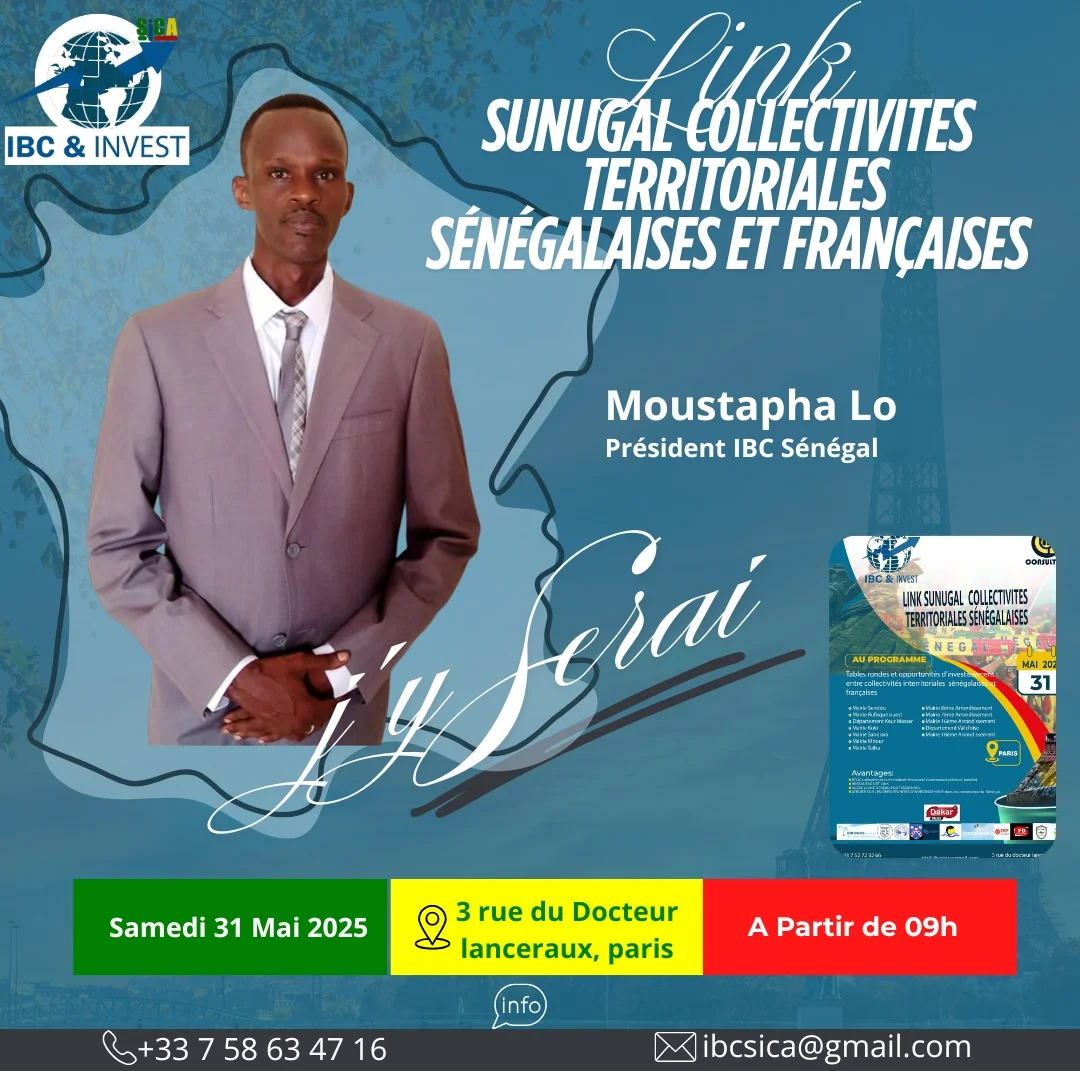
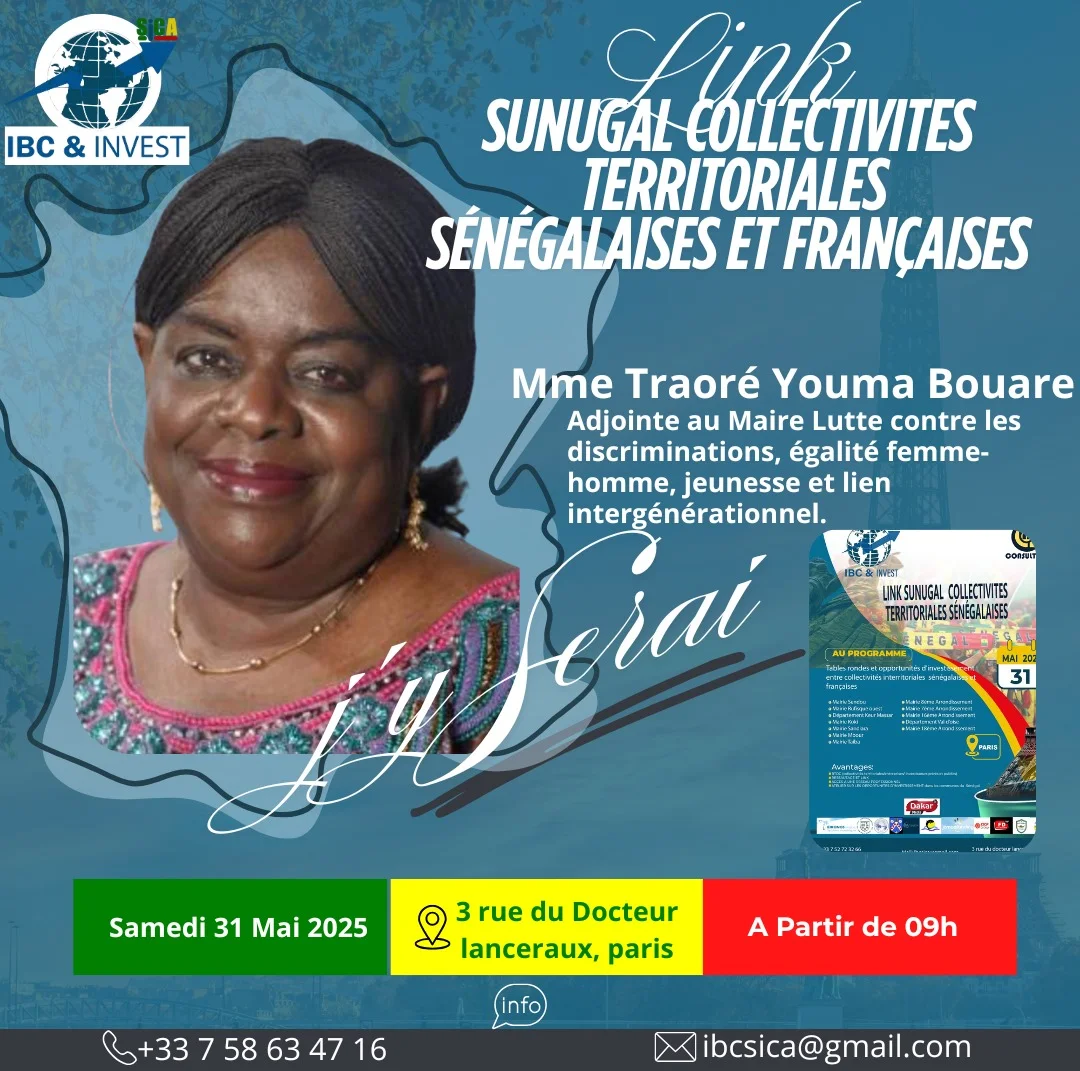
update 14 mai

Changed region(s): [[0.0611, 0.0616, 1.0, 0.8011]]

diff --git a/src/components/Speakers.tsx b/src/components/Speakers.tsx
@@ -18,6 +18,20 @@ import image15 from '../assets/img/invite/15.webp';
 import image16 from '../assets/img/invite/16.webp';
 import image17 from '../assets/img/invite/17.webp';
 import image18 from '../assets/img/invite/18.webp';
+import image19 from '../assets/img/invite/19.webp';
+import image20 from '../assets/img/invite/20.webp';
+import image21 from '../assets/img/invite/21.webp';
+import image22 from '../assets/img/invite/22.webp';
+import image23 from '../assets/img/invite/23.webp';
+import image24 from '../assets/img/invite/24.webp';
+import image25 from '../assets/img/invite/25.webp';
+import image26 from '../assets/img/invite/26.webp';
+import image27 from '../assets/img/invite/27.webp';
+import image28 from '../assets/img/invite/28.webp';
+import image29 from '../assets/img/invite/29.webp';
+import image30 from '../assets/img/invite/30.webp';
+import image31 from '../assets/img/invite/31.webp';
+import image32 from '../assets/img/invite/32.webp';
 
 const speakersData = [
   {
@@ -27,21 +41,21 @@ const speakersData = [
     image: image1,
   },
   {
+    name: 'Mr Roch Verlene BONGOLO',
+    role: '',
+    titre: 'Expert Comptable Associé JLD Conseils et Associés',
+    image: image2,
+  },
+  {
     name: 'Mr Narcisse BANDJIM',
     role: '',
     titre: 'Président BN2smart',
-    image: image2,
+    image: image3,
   },
   {
     name: 'Mr Freddy ZANGA',
     role: '',
     titre: 'Président de la CICP',
-    image: image3,
-  },
-  {
-    name: 'Mr Amadou SYLLA',
-    role: '',
-    titre: 'Président Sos Casamance',
     image: image4,
   },
   {
@@ -81,15 +95,15 @@ const speakersData = [
     image: image10,
   },
   {
-    name: 'Mr Mamadou FAYE',
+    name: 'Mme Astou GUEYE',
     role: 'Collectivité Sénégalaise',
-    titre: 'Président IBC & Invest Italie',
+    titre: 'Maire de Rufique Ouest',
     image: image11,
   },
   {
-    name: 'Mr Moustapha LO',
+    name: 'Mme Traoré Youma BOUARE',
     role: 'Collectivité Sénégalaise',
-    titre: 'Président IBC & Invest Sénégal',
+    titre: 'Adjointe au Maire ',
     image: image12,
   },
   {
@@ -100,34 +114,118 @@ const speakersData = [
   },
   {
     name: 'Mme Fati DIOP',
-    role: 'Collectivité Sénégalaise',
+    role: 'IBC & Invest Membre',
     titre: 'Président IBC & Invest Maroc',
     image: image14,
   },
   {
-    name: "Mme Safietou KANDE",
-    role: 'Collectivité Sénégalaise',
-    titre: 'Président IBC & Invest Chine',
+    name: "Mr Salif DIEDHIOU",
+    role: 'IBC & Invest Membre',
+    titre: 'Sécretaire IBC & Invest international',
     image: image15,
   },
   {
     name: 'Mr Amadou Cheikhou DIAME',
-    role: 'Collectivité Sénégalaise',
+    role: 'IBC & Invest Membre',
     titre: 'Président IBC & Invest Allemagne',
     image: image16,
   },
   {
-    name: 'Mr Khadim SOUGOU',
-    role: 'Collectivité Sénégalaise',
-    titre: 'Président IBC & Invest Amerique',
+    name: 'Mr Moustapha LO',
+    role: 'IBC & Invest Membre',
+    titre: 'Président IBC Sénégal',
     image: image17,
   },
   {
-    name: 'Mr El Maestro DJ AL',
-    role: 'Collectivité Sénégalaise',
-    titre: 'Ambassadeur IBC & Invest',
+    name: 'Mr Mamadou DIAGOURAGA',
+    role: '',
+    titre: 'Professeur/ Conseiller en Communication',
     image: image18,
   },
+  {
+    name: 'Mr Karim BRITEL',
+    role: '',
+    titre: 'Président Private French University',
+    image: image19,
+  },
+  {
+    name: 'Mr Mamadou FAYE',
+    role: 'IBC & Invest Membre',
+    titre: 'Président IBC & Invest Italie',
+    image: image20,
+  },
+  {
+    name: 'Mr Amadou SYLLA',
+    role: '',
+    titre: 'Président SOS Casamence',
+    image: image21,
+  },
+  {
+    name: '',
+    role: '',
+    titre: 'Président Novation Consulting et Assistant technique Expertise France',
+    image: image22,
+  },
+  {
+    name: 'Mme Louise de MAERTELEIRE-MBOUI ',
+    role: '',
+    titre: 'Directrice Ajointe des Finances du département de Val d’Oise',
+    image: image23,
+  },
+  {
+    name: 'Mme Isis Anna MBENGUE',
+    role: '',
+    titre: 'Présidente Halaye',
+    image: image24
+  },
+  {
+    name: 'Mme Fatim LO',
+    role: 'IBC & Invest Membre',
+    titre: 'Présidente IBC Espagne',
+    image: image25
+  },
+  {
+    name: 'Mr Alioune SALL',
+    role: 'IBC & Invest Membre',
+    titre: 'Président IBC Beneluxe ',
+    image: image26
+  },
+  {
+    name: 'Mme Asma Khadija NGOM',
+    role: 'IBC & Invest Membre',
+    titre: 'Charger de Communication IBC',
+    image: image27
+  },
+  {
+    name: 'Mr Camille Bounama SYLLA',
+    role: '',
+    titre: "Conseiller pour l'Afrique de l’Ouest",
+    image: image28
+  },
+  {
+    name: 'Mr Babacar GUEYE',
+    role: '',
+    titre: 'PCD de Keur Massar',
+    image: image29
+  },
+  {
+    name: 'Mr Pape Bakary CISSOKO',
+    role: '',
+    titre: 'Professeur',
+    image: image30
+  },
+  {
+    name: 'Mr Jean MOLIERE',
+    role: '',
+    titre: 'PDG Continent Média',
+    image: image31
+  },
+  {
+    name: 'Mme Oumy Sall NDIAYE',
+    role: '',
+    titre: 'Diaar Yeemou Invest',
+    image: image32
+  }
 ];
 
 const Speakers = () => {
